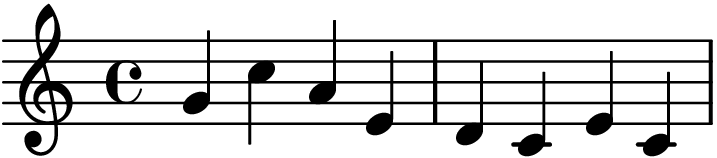
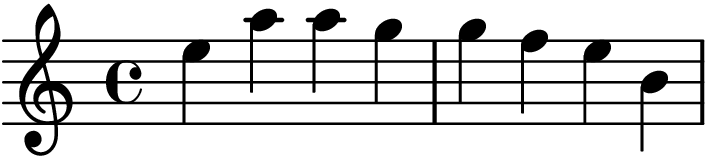
Aggiungi nuovi asset SVG per i tasti della tastiera e aggiorna il file LilyPond per modificare la melodia generata

diff --git a/app/actions/custom/generate_score/generate_score.py b/app/actions/custom/generate_score/generate_score.py
@@ -9,19 +9,34 @@ from PyQt5.QtWidgets import (
     QPushButton,
     QFrame,
     QRadioButton,
+    QWidget,
+    QButtonGroup,
 )
 from PyQt5.QtGui import QPixmap, QRegExpValidator
-from PyQt5.QtCore import Qt, QSize, QThread, pyqtSignal, QObject, QRegExp
+from PyQt5.QtCore import Qt, QSize, QThread, pyqtSignal, QObject, QRegExp, QTimer
 import os
 import subprocess
 import random
 
 note_range = 8
 
+# Percorsi delle immagini dei tasti del pianoforte
+script_dir = os.path.dirname(os.path.abspath(__file__))
+assets_dir = os.path.join(script_dir, "assets")
+WHITE_KEY = os.path.join(assets_dir, "white_key.svg")
+WHITE_KEY_PRESSED = os.path.join(assets_dir, "white_key_pressed.svg")
+BLACK_KEY = os.path.join(assets_dir, "black_key.svg")
+BLACK_KEY_PRESSED = os.path.join(assets_dir, "black_key_pressed.svg")
+
+note_range = 8
+
+# Costanti per lo stile dei tasti del pianoforte
+DEFAULT_KEY_STYLE = "border: 1px solid #444; background-color: #808080;"
+PRESSED_KEY_STYLE = "border: 1px solid #444; background-color: #A0A0A0;"
+
 
 # Worker che genera lo spartito usando LilyPond
 class GenerateScoreWorker(QObject):
-    # Il segnale finished ora emette sia il percorso dell'immagine che le note corrette
     finished = pyqtSignal(str, list)
     error = pyqtSignal(str)
 
@@ -35,23 +50,18 @@ class GenerateScoreWorker(QObject):
         try:
             print("[Worker] Avvio generazione spartito con LilyPond.")
             allowed_notes = ["c", "d", "e", "f", "g", "a", "b"]
-            # Genera note randomiche con durata "4" senza ulteriori limitazioni
             random_notes = [
                 random.choice(allowed_notes) + "4" for _ in range(note_range)
             ]
             print("[Worker] Note random generate:", random_notes)
 
-            # Imposta la chiave e la modalità relativa in base alla selezione
             if self.clef == "bass":
                 clef_command = "\\clef bass"
                 relative_mode = "\\relative c {"
             else:
                 clef_command = "\\clef treble"
-                # Per la chiave di violino (treble), al fine di ottenere note più alte,
-                # usiamo un punto di partenza più elevato (c'' invece di c')
                 relative_mode = "\\relative c'' {"
 
-            # Costruisce il codice LilyPond usando le note random generate
             lilypond_code = f"""
                 \\version "2.24.0"
                 {relative_mode}
@@ -62,23 +72,19 @@ class GenerateScoreWorker(QObject):
                 }}
                 """
 
-            # Calcola il percorso della cartella del file corrente e della cartella "tmp"
             script_dir = os.path.dirname(os.path.abspath(__file__))
             tmp_dir = os.path.join(script_dir, "tmp")
             if not os.path.exists(tmp_dir):
                 os.makedirs(tmp_dir)
                 print("[Worker] Cartella 'tmp' creata in:", tmp_dir)
 
-            # Definisce i percorsi dei file all'interno della cartella tmp
             ly_file = os.path.join(tmp_dir, "spartito.ly")
             png_file = os.path.join(tmp_dir, "spartito.preview.png")
 
-            # Scrive il file LilyPond nella cartella tmp
             with open(ly_file, "w") as f:
                 f.write(lilypond_code)
             print("[Worker] File LilyPond scritto in:", ly_file)
 
-            # Esegue LilyPond per generare il file PNG, impostando la cartella di lavoro su tmp_dir
             result = subprocess.run(
                 ["lilypond", "--png", "-dpreview", "-dresolution=300", ly_file],
                 capture_output=True,
@@ -103,12 +109,12 @@ class GenerateScoreDialog(QDialog):
         super().__init__(parent)
         print("[Dialog] Inizializzazione del dialog.")
         self.setWindowTitle("Genera Spartito")
-        # Rimuoviamo il resize fisso per eliminare spazi vuoti inutilizzati
         self.thread = None
         self.worker = None
         self.correct_notes = None  # Note corrette generate dal worker
+        self.current_input_index = 0  # Per gestire la posizione in modalità pianoforte
         self.init_ui()
-        self.adjustSize()
+        self.adjustSize()  # La finestra si adatta al contenuto
 
     def init_ui(self):
         print("[Dialog] Costruzione dell'interfaccia...")
@@ -116,11 +122,10 @@ class GenerateScoreDialog(QDialog):
         main_layout.setSpacing(10)
         main_layout.setContentsMargins(10, 10, 10, 10)
 
-        # Layout per gli input delle note: utilizziamo un QGridLayout per una disposizione ordinata
+        # Layout per gli input delle note (disposti in una griglia)
         grid_layout = QGridLayout()
         grid_layout.setSpacing(5)
         self.note_edits = []
-        # Validator: accetta solo una lettera (a-g o A-G)
         validator = QRegExpValidator(QRegExp("^[a-gA-G]$"))
         for i in range(note_range):
             label = QLabel(f"Nota {i+1}")
@@ -129,7 +134,6 @@ class GenerateScoreDialog(QDialog):
             line_edit.setMaxLength(1)
             line_edit.setFixedWidth(50)
             line_edit.setValidator(validator)
-            # Quando viene inserito un carattere, sposta il focus sul successivo oppure valida se è l'ultimo input
             line_edit.textChanged.connect(
                 lambda text, index=i: self.move_focus(text, index)
             )
@@ -138,7 +142,7 @@ class GenerateScoreDialog(QDialog):
             self.note_edits.append(line_edit)
         main_layout.addLayout(grid_layout)
 
-        # Layout per la selezione della chiave
+        # Layout per la selezione della chiave (Violino o Basso)
         clef_layout = QHBoxLayout()
         clef_label = QLabel("Seleziona chiave:")
         clef_layout.addWidget(clef_label)
@@ -147,7 +151,63 @@ class GenerateScoreDialog(QDialog):
         self.radio_treble.setChecked(True)
         clef_layout.addWidget(self.radio_treble)
         clef_layout.addWidget(self.radio_bass)
+        # Raggruppamento radio button per la chiave
+        self.clef_group = QButtonGroup(self)
+        self.clef_group.addButton(self.radio_treble)
+        self.clef_group.addButton(self.radio_bass)
         main_layout.addLayout(clef_layout)
+
+        # Layout per la selezione della modalità di input
+        input_mode_layout = QHBoxLayout()
+        input_mode_label = QLabel("Modalità di input:")
+        input_mode_layout.addWidget(input_mode_label)
+        self.radio_computer = QRadioButton("Tastiera del computer")
+        self.radio_piano = QRadioButton("Pianoforte")
+        self.radio_computer.setChecked(True)  # Modalità di default
+        input_mode_layout.addWidget(self.radio_computer)
+        input_mode_layout.addWidget(self.radio_piano)
+        # Raggruppamento radio button per la modalità di input
+        self.input_mode_group = QButtonGroup(self)
+        self.input_mode_group.addButton(self.radio_computer)
+        self.input_mode_group.addButton(self.radio_piano)
+        main_layout.addLayout(input_mode_layout)
+
+        # Collega il cambio di modalità per aggiornare l'interfaccia
+        self.radio_computer.toggled.connect(self.update_input_mode)
+        self.radio_piano.toggled.connect(self.update_input_mode)
+
+        # Layout per i tasti del pianoforte (visibile solo in modalità pianoforte)
+        self.piano_keys_widget = QWidget()
+        piano_layout = QHBoxLayout(self.piano_keys_widget)
+        piano_layout.setSpacing(5)
+        # Mapping: per ogni tasto (chiave fisica) definiamo (nome nota, nota lettera da inserire)
+        self.piano_mapping = {
+            "a": ("La", "a"),
+            "s": ("Si", "b"),
+            "d": ("Do", "c"),
+            "f": ("Re", "d"),
+            "g": ("Mi", "e"),
+            "h": ("Fa", "f"),
+            "j": ("Sol", "g"),
+            "k": ("La", "a"),
+        }
+        # Creiamo i "tasti" come QLabel e li memorizziamo in un dizionario
+        self.piano_keys_dict = {}
+        for key in ["a", "s", "d", "f", "g", "h", "j", "k"]:
+            note_name, key_letter = self.piano_mapping[key]
+            label = QLabel(
+                f"<div align='center'><span style='font-size:12pt;'>{note_name}</span><br>"
+                f"<span style='font-size:8pt;'>{key.upper()}</span></div>"
+            )
+            label.setFixedSize(40, 40)
+            label.setAlignment(Qt.AlignCenter)
+            label.setStyleSheet(DEFAULT_KEY_STYLE)
+            # Rendi il widget non interattivo col mouse
+            label.setAttribute(Qt.WA_TransparentForMouseEvents)
+            piano_layout.addWidget(label)
+            self.piano_keys_dict[key] = label
+        main_layout.addWidget(self.piano_keys_widget)
+        self.update_input_mode()  # Stato iniziale
 
         # Frame per visualizzare lo spartito generato
         self.score_frame = QFrame()
@@ -155,12 +215,11 @@ class GenerateScoreDialog(QDialog):
         score_layout = QVBoxLayout(self.score_frame)
         self.score_label = QLabel("Qui verrà visualizzato lo spartito")
         self.score_label.setAlignment(Qt.AlignCenter)
-        # Incrementata la dimensione minima per l'immagine
         self.score_label.setMinimumSize(500, 350)
         score_layout.addWidget(self.score_label)
         main_layout.addWidget(self.score_frame)
 
-        # Label per mostrare il punteggio (es. "3/8")
+        # Label per mostrare il punteggio
         self.score_result_label = QLabel("")
         self.score_result_label.setAlignment(Qt.AlignCenter)
         main_layout.addWidget(self.score_result_label)
@@ -177,33 +236,82 @@ class GenerateScoreDialog(QDialog):
         self.send_button.clicked.connect(self.on_send_clicked)
         print("[Dialog] Interfaccia costruita con successo.")
 
+    def update_input_mode(self):
+        """Aggiorna l'interfaccia in base alla modalità di input selezionata."""
+        if self.radio_piano.isChecked():
+            for edit in self.note_edits:
+                edit.setReadOnly(True)
+            self.piano_keys_widget.show()
+            self.current_input_index = 0
+            if self.note_edits:
+                self.note_edits[0].setFocus()
+        else:
+            for edit in self.note_edits:
+                edit.setReadOnly(False)
+            self.piano_keys_widget.hide()
+
     def move_focus(self, text, index):
-        """Sposta il focus al campo successivo se è stato inserito un carattere, altrimenti avvia la validazione."""
+        """
+        In modalità tastiera, sposta il focus al campo successivo se è stato inserito un carattere;
+        in modalità pianoforte il segnale viene ignorato.
+        """
+        if self.radio_piano.isChecked():
+            return
         if len(text) == 1:
             if index < len(self.note_edits) - 1:
                 self.note_edits[index + 1].setFocus()
             else:
-                # Ultimo input: avvia la validazione
                 self.on_send_clicked()
+
+    def illuminate_key(self, key):
+        """Illumina il tasto relativo per 200ms usando lo stile definito."""
+        if key in self.piano_keys_dict:
+            label = self.piano_keys_dict[key]
+            label.setStyleSheet(PRESSED_KEY_STYLE)
+            QTimer.singleShot(200, lambda: label.setStyleSheet(DEFAULT_KEY_STYLE))
+
+    def handle_piano_key(self, key):
+        """
+        Gestisce la pressione di un tasto (fisico) in modalità pianoforte:
+        aggiorna l'input corrente e illumina il tasto.
+        """
+        if self.current_input_index >= note_range:
+            return
+        note_name, note_letter = self.piano_mapping[key]
+        self.illuminate_key(key)
+        self.note_edits[self.current_input_index].setText(note_letter.lower())
+        if self.current_input_index < len(self.note_edits) - 1:
+            self.current_input_index += 1
+            self.note_edits[self.current_input_index].setFocus()
+        else:
+            self.on_send_clicked()
+
+    def keyPressEvent(self, event):
+        """
+        Se siamo in modalità pianoforte, intercettiamo le pressioni dei tasti fisici
+        (a, s, d, f, g, h, j, k) per inserire la nota corrispondente.
+        """
+        if self.radio_piano.isChecked():
+            key = event.text().lower()
+            if key in self.piano_mapping:
+                self.handle_piano_key(key)
+                return
+        super().keyPressEvent(event)
 
     def on_generate_clicked(self):
         print("[Dialog] Pulsante 'Genera Spartito' cliccato.")
-        # Reset degli input e dello score
         for edit in self.note_edits:
             edit.clear()
             edit.setStyleSheet("")
         self.score_result_label.setText("")
         self.correct_notes = None
-
-        # Legge le note eventualmente inserite (non usate dal worker) e la scelta della chiave
+        self.current_input_index = 0
         notes = [edit.text().strip() for edit in self.note_edits if edit.text().strip()]
         if not notes:
             print("[Dialog] Nessuna nota inserita, verranno generate note randomiche.")
-        # Determina la chiave in base ai radio button
         clef = "bass" if self.radio_bass.isChecked() else "treble"
         self.generate_button.setEnabled(False)
         self.score_label.setText("Generazione in corso...")
-
         self.thread = QThread()
         self.worker = GenerateScoreWorker(notes, clef)
         self.worker.moveToThread(self.thread)
@@ -225,9 +333,9 @@ class GenerateScoreDialog(QDialog):
             pixmap.scaled(target_size, Qt.KeepAspectRatio, Qt.SmoothTransformation)
         )
         self.generate_button.setEnabled(True)
-        # Imposta il focus sul primo input dopo la generazione
         if self.note_edits:
             self.note_edits[0].setFocus()
+            self.current_input_index = 0
 
     def on_generation_error(self, error_msg):
         print("[Dialog] Errore nella generazione:", error_msg)
@@ -242,7 +350,6 @@ class GenerateScoreDialog(QDialog):
             self.score_result_label.setText("Genera prima lo spartito!")
             return
 
-        # Confronta le note inserite (solo la lettera) con quelle corrette
         user_notes = [edit.text().strip() for edit in self.note_edits]
         correct_count = 0
         for i, note in enumerate(user_notes):
